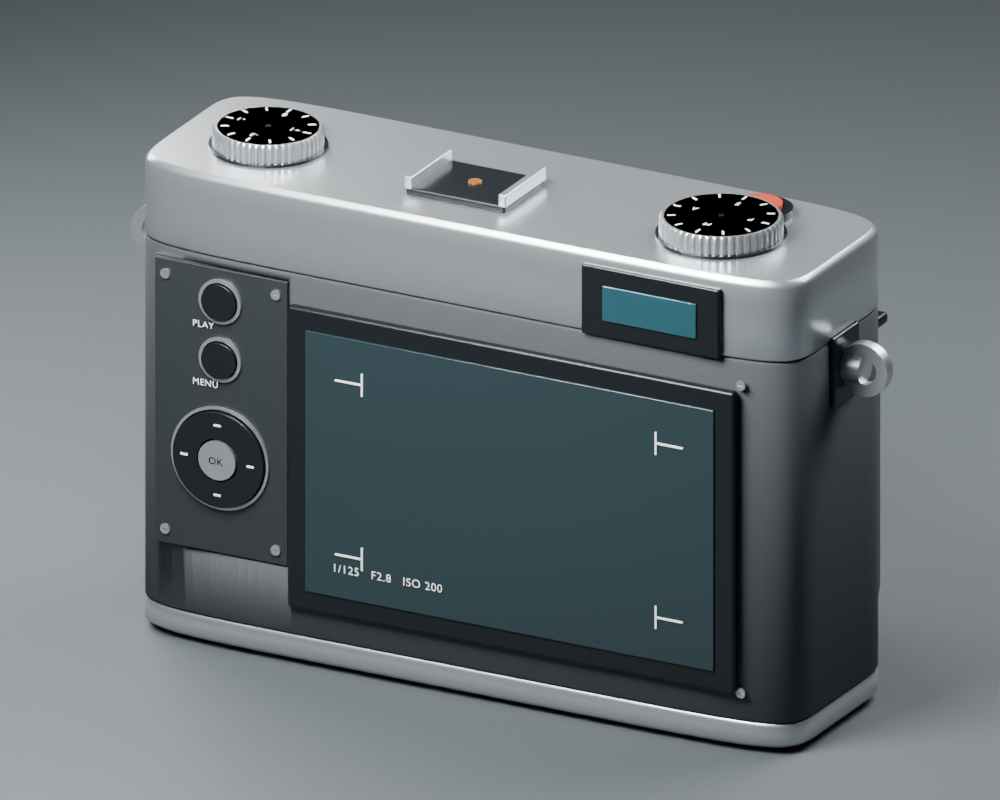
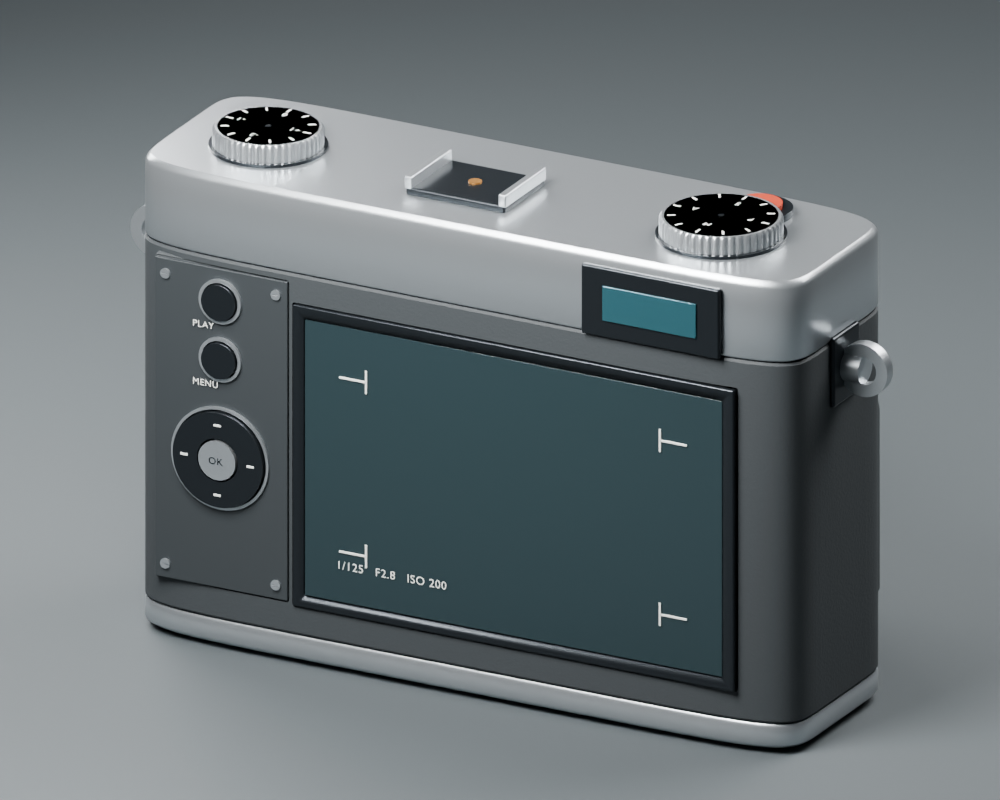
Integrate camera grip panel and recessed display [skip ci]

diff --git a/examples/compact_camera.py b/examples/compact_camera.py
@@ -39,7 +39,7 @@ def build(output):
 
     silver = material('Satin aluminium', (.46,.49,.51), .85,.3)
     black = material('Black anodised metal', (.018,.022,.026), .7,.28)
-    panel_finish = material('Satin control panel', (.022,.027,.031), .35,.48)
+    panel_finish = material('Satin control panel', (.025,.03,.033), .15,.55)
     rubber = material('Charcoal leather', (.025,.03,.033), 0,.7)
     brass = material('Warm index accent', (.66,.31,.08), .8,.27)
     glass = material('Coated optical glass', (.025,.105,.13), .32,.09,.35)
@@ -93,8 +93,14 @@ def build(output):
         (3.4,60,18),(6.35,60,18),(6.75,59.7,17.7)],silver)
     casing('Upper recessed gasket',[(68.8,59.4,17.4),(69.5,59.4,17.4)],black)
     casing('Lower recessed gasket',[(6.5,59.4,17.4),(7.2,59.4,17.4)],black)
-    box('Sculpted front grip',(22,17,51),(-44,-19,35),rubber,7)
-    box('Grip upper accent',(19,12,2),(-44,-22,61),black,.7)
+    # Taper both ends into the body; no separate projecting top plate.
+    grip=assign(sectionstock.create('Tapered front grip',[
+        [8,-44,-16.6,7,1.0],[10,-44,-18.5,9,3.0],
+        [16,-44,-20.6,10.5,5.0],[47,-44,-20.6,10.5,5.0],
+        [54,-44,-19.6,10,4.0],[59,-44,-17.8,8.8,2.2],
+        [63,-44,-16.6,7,1.0]],exponent=4,segments=128),rubber)
+    materials.finish([grip], 'Grip fine grain', role='rubber', color=(.025,.03,.033,1),
+                     roughness=.7, variation=.03, grain_mm=.5, bump_mm=.025, seed=19)
     # Lens axis: -Y. Ring bores and the glass share the same centre.
     ring('Mount flange',(10,-18,40),4,30,23,silver)
     ring('Brass mount index',(10,-22,40),1.2,28.8,23,brass)
@@ -167,14 +173,17 @@ def build(output):
     label('FRAME',(-7,-18.6,74),4,black)
     label('35 / 2',(33,-18.7,58),2.3,white)
     # Rear display and a small control cluster.
-    box('Rear display surround',(81,1.8,52),(-10,18.5,38),black,.65)
-    box('Rear display glass',(74,.5,45),(-10,19.5,38),screen,.2)
+    display_stock=box('Display bezel stock',(80,1.2,52),(-10,17.9,38),black,.35)
+    display_frame=mechanical.cut_box(display_stock,'Inset display bezel',(76,3,48),(-10,17.9,38),.6)
+    display_stock.hide_render=True;display_stock.hide_set(True);parts.append(display_frame)
+    display_glass=box('Rear display glass',(75.6,.4,47.6),(-10,18.1,38),screen,.15)
+    box('Display backing',(76,.4,48),(-10,17.6,38),black,.15)
     for x in (-39,19):
         for z in (23,53):
-            box('Display frame horizontal %s %s'%(x,z),(5,.2,.4),(x,19.85,z),white,.08)
-            box('Display frame vertical %s %s'%(x,z),(.4,.2,4),(x+(2.4 if x<0 else -2.4),19.85,z),white,.08)
-    label('1/125   F2.8   ISO 200',(22,19.9,20),2,white,rear=True)
-    panel=box('Rear service panel',(24,.7,49),(43,17.85,43),panel_finish,.18)
+            box('Display frame horizontal %s %s'%(x,z),(5,.2,.4),(x,18.42,z),white,.08)
+            box('Display frame vertical %s %s'%(x,z),(.4,.2,4),(x+(2.4 if x<0 else -2.4),18.42,z),white,.08)
+    label('1/125   F2.8   ISO 200',(22,18.45,20),2,white,rear=True)
+    panel=box('Rear service panel',(24,.7,55),(43,17.85,40),panel_finish,.18)
     controls_before=set(bpy.data.objects)
     ring('Navigation seated bezel',(43,18.7,35),.45,8.8,8.35,silver,(0,1,0))
     ring('Rear navigation wheel',(43,18.8,35),1.15,8.1,3.7,black,(0,1,0))
@@ -198,7 +207,7 @@ def build(output):
         stock.hide_render=True;stock.hide_set(True)
         parts.append(result)
         return result
-    for x,z in ((33,21),(53,21),(33,65),(53,65),(-51,65),(-51,12)):
+    for x,z in ((33,15),(53,15),(33,65),(53,65)):
         screw('Rear panel screw %s %s'%(x,z),x,18.2 if x>0 else 17.8,z)
     for x in (-60,60):
         box('Strap mounting plate '+str(x),(1.5,9,12),(x,0,64),black,.5)
@@ -210,16 +219,18 @@ def build(output):
     # uncut construction objects hidden; the first native model stays untouched.
     pocket=mechanical.cut_box(body,'Body battery pocket',(32,22,18),(-33,0,15),1.2)
     body.hide_render=True;body.hide_set(True);parts.append(pocket)
-    flange=box('Panel seat flange',(24.9,2,49.9),(43,16.6,43),black,.8)
+    flange=box('Panel seat flange',(24.9,2,55.9),(43,16.6,40),black,.8)
     supported_body=enclosure.boolean(pocket,flange,'UNION','Body panel support')
     pocket.hide_render=True;pocket.hide_set(True)
     flange.hide_render=True;flange.hide_set(True);parts.append(supported_body)
-    seated_body=mechanical.cut_box(supported_body,'Body with panel seat',(24.5,2,49.5),(43,18.2,43),.55)
+    seated_body=mechanical.cut_box(supported_body,'Body with panel seat',(24.5,2,55.5),(43,18.2,40),.55)
     supported_body.hide_render=True;supported_body.hide_set(True);parts.append(seated_body)
-    panel_gasket_stock=box('Panel gasket stock',(24,.3,49),(43,17.35,43),rubber,.1)
-    panel_gasket=mechanical.cut_box(panel_gasket_stock,'Panel perimeter gasket',(21.6,1,46.6),(43,17.35,43),.4)
+    display_body=mechanical.cut_box(seated_body,'Body display recess',(80.4,2.2,52.4),(-10,18,38),.5)
+    seated_body.hide_render=True;seated_body.hide_set(True);parts.append(display_body);seated_body=display_body
+    panel_gasket_stock=box('Panel gasket stock',(24,.3,55),(43,17.35,40),rubber,.1)
+    panel_gasket=mechanical.cut_box(panel_gasket_stock,'Panel perimeter gasket',(21.6,1,52.6),(43,17.35,40),.4)
     panel_gasket_stock.hide_render=True;panel_gasket_stock.hide_set(True);parts.append(panel_gasket)
-    for i,(x,z) in enumerate(((33,21),(53,21),(33,65),(53,65))):
+    for i,(x,z) in enumerate(((33,15),(53,15),(33,65),(53,65))):
         bore=construction.strut('Panel fastener cutter',(x,16.8,z),(x,20,z),.65,48)
         drilled=enclosure.boolean(panel,bore,'DIFFERENCE','Drilled service panel '+str(i))
         mechanical.remove(bore)
@@ -307,6 +318,13 @@ def build(output):
     world=latch_root.matrix_world.copy();latch_root.parent=door_root;latch_root.matrix_world=world
     for obj in hatch_parts:
         world=obj.matrix_world.copy();obj.parent=door_root;obj.matrix_world=world
+    # Rebuild face corner normals after body recess cuts to avoid broad
+    # interpolation bands across the narrow remaining outer skin.
+    body_normals=[(0,0,0)]*len(seated_body.data.loops)
+    for face in seated_body.data.polygons:
+        face.use_smooth=False
+        for index in face.loop_indices:body_normals[index]=tuple(face.normal)
+    seated_body.data.normals_split_custom_set(body_normals)
     # Bottom tripod socket is separate from the hatch.
     ring('Tripod socket',(4,0,2.45),1.3,4,2.5,silver,(0,0,1))
     # Focused static geometry check only, before adding the presentation floor.
@@ -328,7 +346,7 @@ def build(output):
     battery_access=tree(battery).ray_cast(Vector((-38,0,0)),Vector((0,0,1)),10)[0] is not None
     hatch_closed=tree(hatch_parts[0]).ray_cast(Vector((-33,0,0)),Vector((0,0,1)),10)[0] is not None
     panel_bores=all(tree(panel).ray_cast(Vector((x,16,z)),Vector((0,1,0)),5)[0] is None
-                    for x,z in ((33,21),(53,21),(33,65),(53,65)))
+                    for x,z in ((33,15),(53,15),(33,65),(53,65)))
     control_apertures=all(tree(panel).ray_cast(Vector((43,16,z)),Vector((0,1,0)),5)[0] is None
                           for z,_,_ in button_specs)
     shafts_clear=all(not tree(shaft).overlap(tree(panel)) and
@@ -342,6 +360,8 @@ def build(output):
     mechanical.remove(probe)
     if not all((control_apertures,shafts_clear,oversized_rejected,guides_attached)):
         raise ValueError('Button aperture/shaft clearance or negative fit check failed')
+    display_clear=not tree(display_frame).overlap(tree(display_glass))
+    if not display_clear:raise ValueError('Inset display glass intersects bezel')
     latch_fits=not tree(latch_tongue).overlap(tree(receiver))
     def bounds(ob,axis):
         values=[(ob.matrix_world@v.co)[axis] for v in ob.data.vertices]
@@ -365,13 +385,14 @@ def build(output):
     output.mkdir(parents=True)
     report={'blender':bpy.app.version_string,'mesh_parts':len(parts),'finite_geometry':not errors,
             'scope':'Camera exterior, controls and battery/card hatch; two static hatch poses, not a motion sweep.',
-            'threads':2,'renders':['rear-controls'],
+            'threads':2,'renders':['front','rear-controls'],
             'opening_clear':opening_clear,'battery_access':battery_access,
             'closed_hatch_covers_opening':hatch_closed,'open_hatch_clears_opening':hatch_open,
             'hatch_angle_degrees':105,'button_radial_clearance_mm':.2,
             'control_apertures_open':control_apertures,'button_shafts_clear':shafts_clear,
             'guide_supports_attached':bool(guides_attached),
             'oversized_shaft_rejected':oversized_rejected,'shaft_radial_clearance_mm':.2,
+            'display_glass_bezel_clear':display_clear,
             'panel_bores_open':panel_bores,'panel_gasket_contact':panel_contact,
             'door_seal_seat_contact':seal_contact,'latch_fits_receiver':latch_fits,
             'latch_releases_before_opening':latch_released}
@@ -391,7 +412,8 @@ def build(output):
     scene.render.threads_mode='FIXED';scene.render.threads=2
     scene.view_settings.view_transform='AgX'
     bpy.ops.wm.save_as_mainfile(filepath=str((output/'camera.blend').resolve()))
-    for view,pos,target,scale in [('rear-controls',(-125,240,155),(0,4,48),160)]:
+    for view,pos,target,scale in [('front',(175,-260,155),(0,-8,42),185),
+                                ('rear-controls',(-125,240,155),(0,4,48),160)]:
         if view=='hatch-open':
             floor.hide_render=True
             latch_root.location.x-=2

diff --git a/docs/STATUS.md b/docs/STATUS.md
@@ -2,6 +2,25 @@
 
 ## Compact camera exterior — 2026-10-23
 
+Exterior integration revision addresses the four user-marked areas. A tapered
+section grip replaces the rounded block and projecting top plate. The control
+panel, gasket and body seat extend down to align with the screen; lower fasteners
+move with the panel. Its finish is closer to the body. The display now has a
+cut-through bezel, recessed glass, a backing and an actual body recess; exposed
+display-corner screws are removed. Native result:
+`runs/compact-camera-integration/camera.blend`.
+
+Focused checks cover display glass/bezel non-intersection and the affected panel
+bores, gasket contact and button supports. Front and rear views cover the changed
+exterior. Blender 5.2.2 LTS passed these checks. Both views were inspected;
+a broad shading band introduced by the body recess was corrected with explicit
+face corner normals and the rear view was rendered again. The final rear image
+shows an even body surface below the extended panel and around the inset display.
+The front image predates this final body-normal correction but shows the current
+grip geometry. Blender exited; one process and two CPU threads were used at a
+time. This remains a static visual model, not a manufacturing validation.
+Previous revisions follow.
+
 Button seating revision: MENU, PLAY and navigation controls now use real panel
 apertures. Separate button shafts run through guide sleeves into a body cavity;
 retaining flanges and a navigation carrier complete the static assembly.

diff --git a/README.md b/README.md
@@ -17,6 +17,8 @@ Seated buttons, marked dials and panel screws define the controls. The bottom
 battery/card hatch has an actual opening, liner, gasket seat and retracting latch.
 The rear panel seats in a body recess with a perimeter gasket and through-holes
 for separate screws. Fixed and moving hinge knuckles share one pin axis.
+The grip tapers into the body without a projecting cap; the rear panel aligns
+with a recessed display and narrow bezel.
 [Generator](examples/compact_camera.py) · [Scope and checks](docs/STATUS.md)
 
 | Refined front | Lens and aperture |
